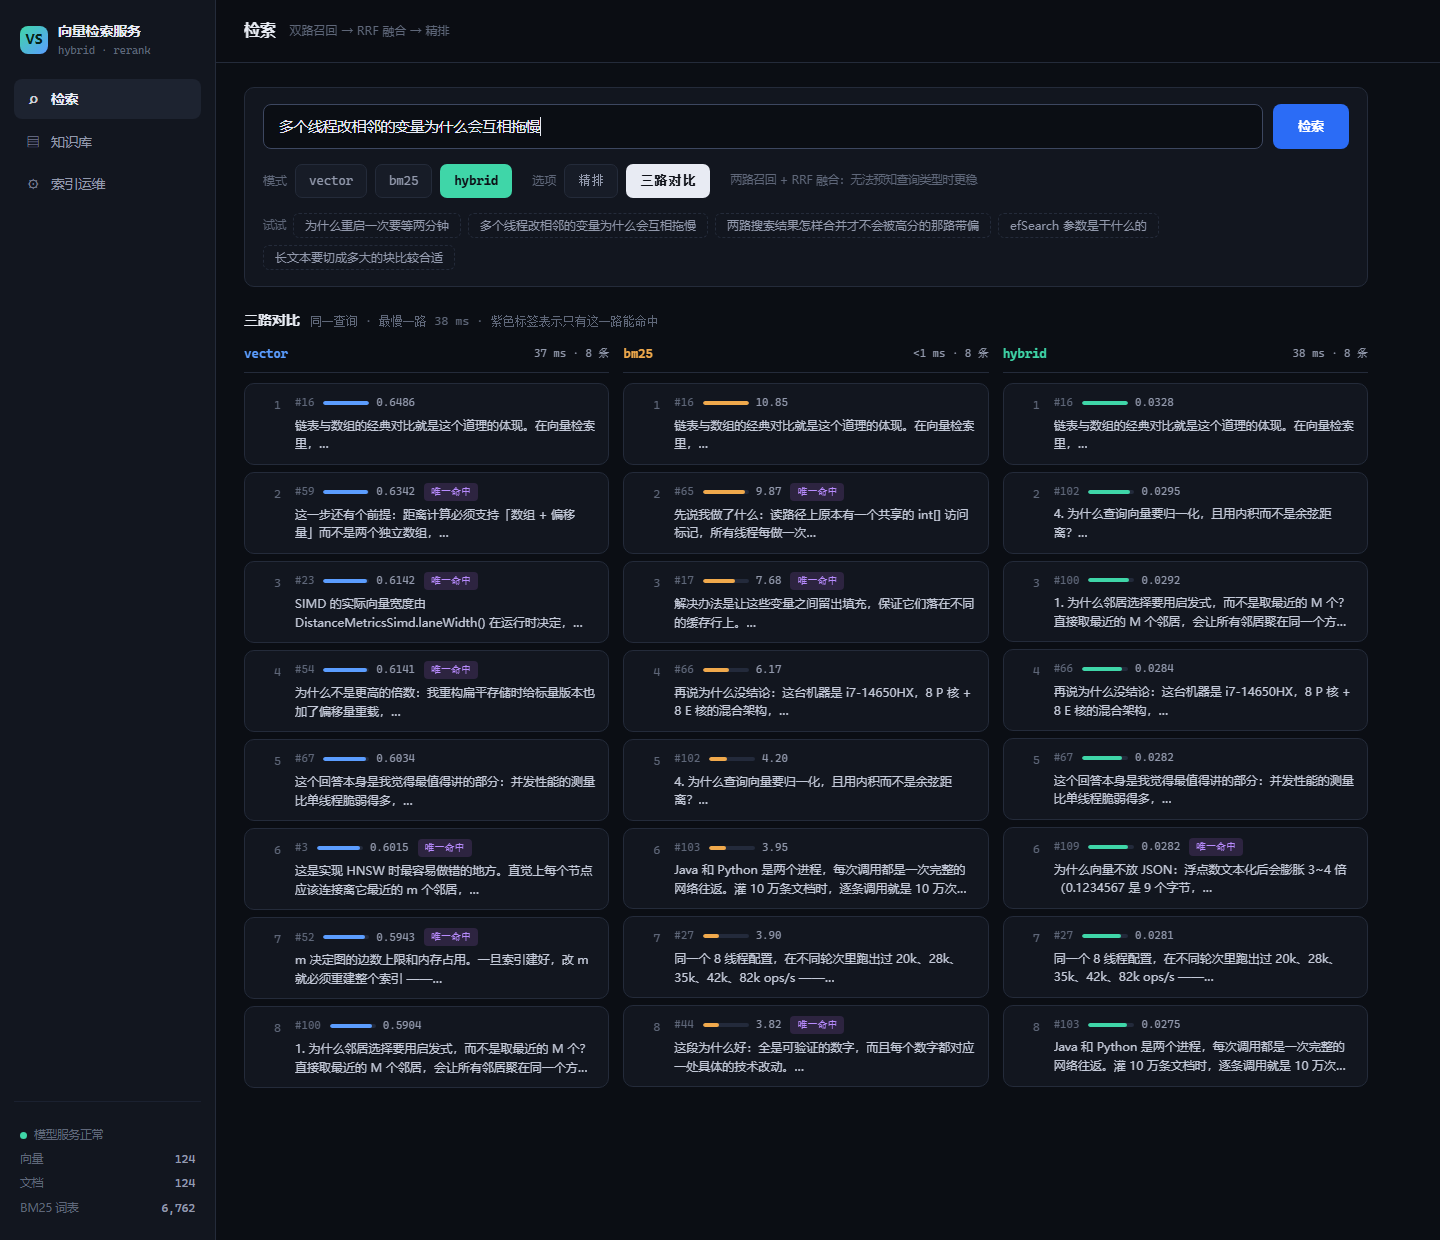
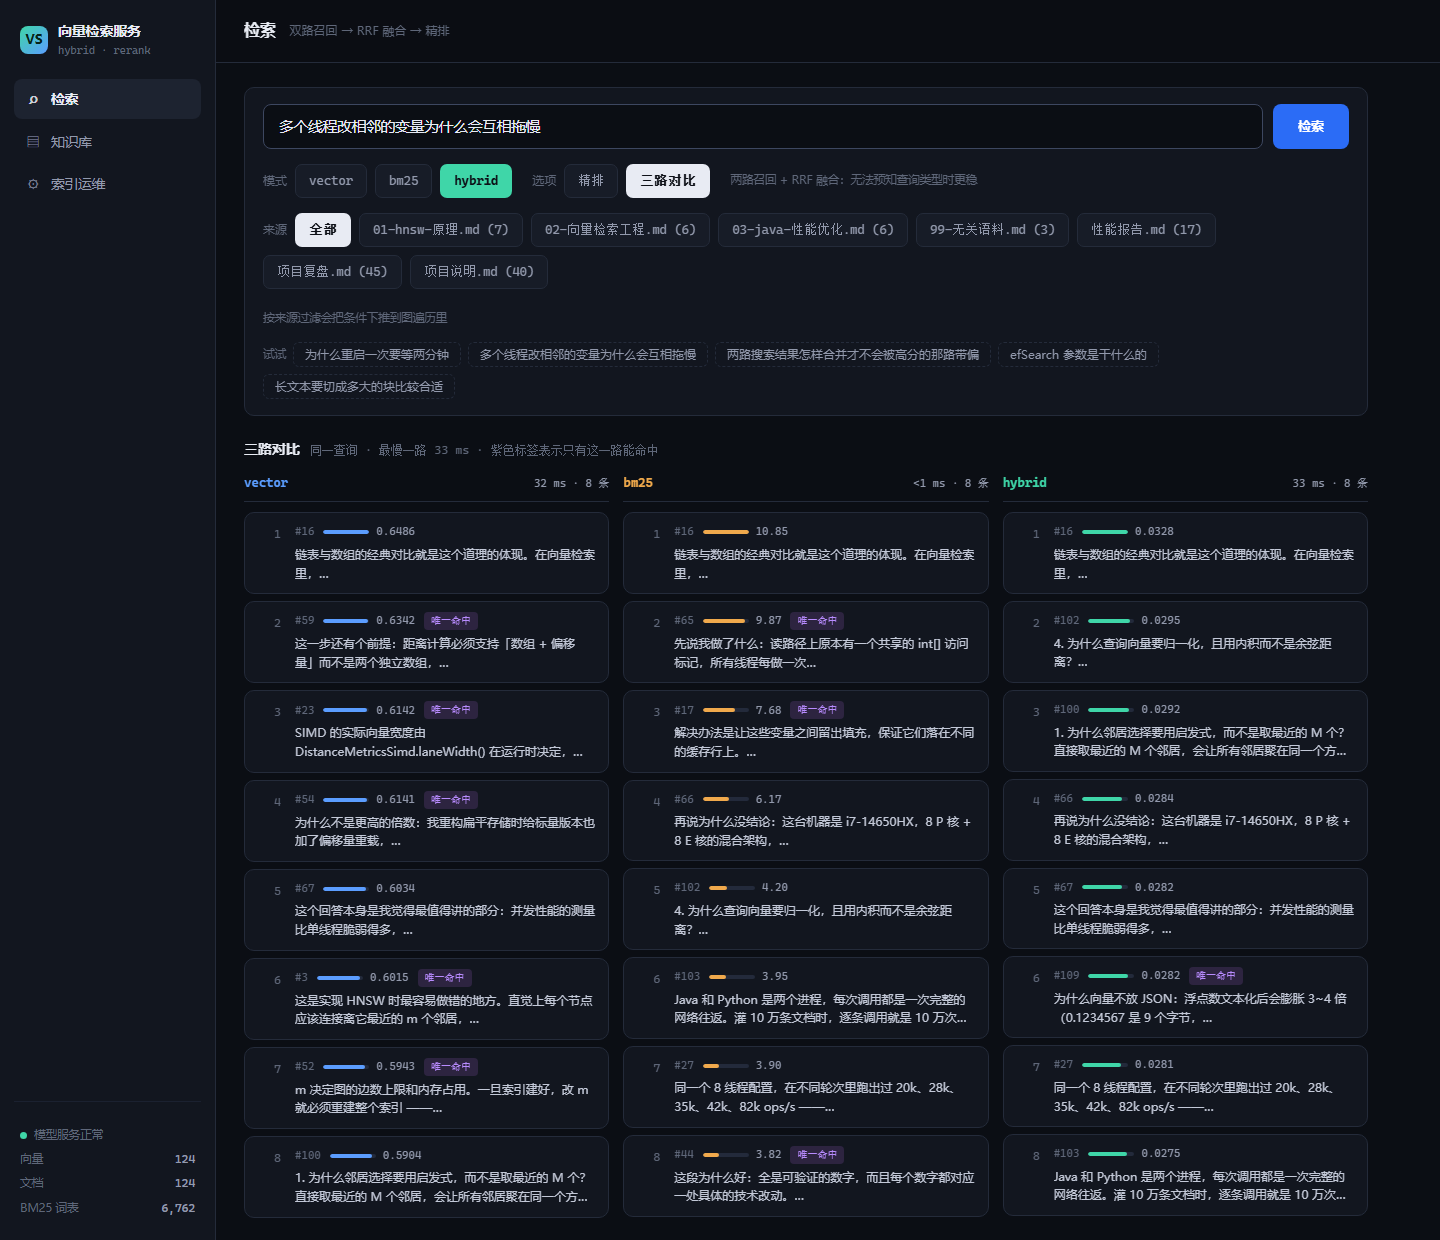
fix: 批量灌入按每条文档记来源，演示语料改从切好的 jsonl 恢复
IndexDocumentRequest 加了可空的 source 字段，SearchService.index 优先用它、
退回请求级来源、再退回「未标注」。之前整批共用一份来源，而 load_corpus.py
灌的是切好块的语料（一行一个来源），结果整库都是「未标注」，页面上的来源
筛选形同虚设 —— 不报错，只是安静地少一个功能。

同一个根因还带出两处演示数据问题，一并修掉：

- load_corpus.py 现在把语料行里的 source 一起送过去
- eval/tune_weights.py 扫完恢复演示语料时，改成灌 data/eval-demo/corpus.jsonl，
  不再上传 data/corpus-demo 下的原始 md。原文里有代码围栏，服务端分块会把
  ```bash / ```json 片段也索引进去，演示结果里全是代码碎片

新增 IndexDocumentSourceTest（85 个用例）：假模型客户端 + 真实索引，
断言同一批里三条文档各自落到 a.md / b.md / 未标注。

演示索引按官方路径重灌：124 分块 / 6762 词条 / 7 个来源，
README 内嵌的六张截图同步重截。

diff --git a/vector-search-java/src/test/java/com/vectorsearch/service/IndexDocumentSourceTest.java b/vector-search-java/src/test/java/com/vectorsearch/service/IndexDocumentSourceTest.java
@@ -1,0 +1,79 @@
+package com.vectorsearch.service;
+
+import com.fasterxml.jackson.databind.ObjectMapper;
+import com.vectorsearch.api.dto.IndexDocumentRequest;
+import com.vectorsearch.client.ModelServiceClient;
+import com.vectorsearch.config.VectorSearchProperties;
+import org.junit.jupiter.api.DisplayName;
+import org.junit.jupiter.api.Test;
+
+import java.util.List;
+
+import static org.junit.jupiter.api.Assertions.assertEquals;
+
+/**
+ * 批量灌入时，来源必须按<b>每条文档</b>各自落库。
+ *
+ * <p>为什么专门测这个：切好块的语料一行一条、每行的来源不同，而
+ * {@code scripts/load_corpus.py} 走的是批量接口。如果批量接口只认请求级来源，
+ * 灌完之后整库都是「未标注」，页面上的来源筛选直接失去意义 —— 而且不会报错，
+ * 只是安静地少了一个功能。
+ */
+class IndexDocumentSourceTest {
+
+    private static final int DIMENSION = 8;
+
+    /** 不打网络的假模型客户端：按顺序给单位向量，够索引建图用。 */
+    private static final class StubModelServiceClient extends ModelServiceClient {
+
+        StubModelServiceClient(VectorSearchProperties properties) {
+            super(new ObjectMapper(), properties);
+        }
+
+        @Override
+        public float[][] embed(List<String> texts) {
+            float[][] vectors = new float[texts.size()][DIMENSION];
+            for (int i = 0; i < texts.size(); i++) {
+                vectors[i][i % DIMENSION] = 1.0f;
+            }
+            return vectors;
+        }
+    }
+
+    private static VectorSearchProperties properties() {
+        return new VectorSearchProperties(
+                null,
+                0,
+                new VectorSearchProperties.Index(
+                        DIMENSION, 16, 200, 100, "./target/test-index", 300, 50, "f32"),
+                null,
+                null,
+                null);
+    }
+
+    @Test
+    @DisplayName("同一批里每条的 source 各自生效，没带的记「未标注」")
+    void keepsPerDocumentSource() {
+        VectorSearchProperties properties = properties();
+        DocumentStore store = new DocumentStore(new ObjectMapper());
+        VectorIndexManager indexManager = new VectorIndexManager(properties, store);
+        SparseIndexManager sparseIndexManager = new SparseIndexManager(store);
+        SearchService service = new SearchService(
+                new StubModelServiceClient(properties),
+                indexManager,
+                sparseIndexManager,
+                store,
+                properties);
+
+        service.index(List.of(
+                new IndexDocumentRequest(0, "第一篇正文", "a.md"),
+                new IndexDocumentRequest(1, "第二篇正文", "b.md"),
+                new IndexDocumentRequest(2, "第三篇正文")));
+
+        assertEquals("a.md", store.sourceOf(0));
+        assertEquals("b.md", store.sourceOf(1));
+        assertEquals(DocumentStore.DocMeta.UNKNOWN_SOURCE, store.sourceOf(2));
+        assertEquals(1, store.sourceCounts().get("a.md"));
+        assertEquals(1, store.sourceCounts().get("b.md"));
+    }
+}

diff --git a/eval/tune_weights.py b/eval/tune_weights.py
@@ -247,12 +247,17 @@ def main() -> int:
     out_path.write_text(json.dumps(payload, ensure_ascii=False, indent=2) + "\n", encoding="utf-8")
     print(f"结果已写入 {out_path}", flush=True)
 
-    # 扫完把索引恢复成演示语料（否则页面上看到的是评测语料）
+    # 扫完把索引恢复成演示语料（否则页面上看到的是评测语料）。
+    #
+    # 这里必须灌切好块的 corpus.jsonl，不要上传 data/corpus-demo 下的原始 md：
+    # 原文里带代码围栏，上传后由服务端分块会把 ```bash / ```json 片段也索引进去，
+    # 演示结果里会冒出代码碎片（曾经就是这么把演示页弄难看的）。
     print("恢复演示语料 …", flush=True)
     restart(best["vector"], best["bm25"])
-    run(["curl.exe", "-s", "-X", "DELETE", f"{SERVICE}/api/documents"])
-    for md in sorted((ROOT / "data" / "corpus-demo").glob("*.md")):
-        run(["curl.exe", "-s", "-X", "POST", "-F", f"file=@{md}", f"{SERVICE}/api/documents/upload"])
+    run([sys.executable, str(ROOT / "scripts" / "load_corpus.py"),
+         "--service", SERVICE,
+         "--corpus", str(ROOT / "data" / "eval-demo" / "corpus.jsonl"),
+         "--reset"])
     run(["curl.exe", "-s", "-X", "POST", f"{SERVICE}/api/admin/snapshot"])
     print("完成。", flush=True)
     return 0

diff --git a/scripts/load_corpus.py b/scripts/load_corpus.py
@@ -46,6 +46,19 @@ def post_json(url: str, payload: dict, timeout: float) -> dict:
         return json.loads(response.read().decode("utf-8"))
 
 
+def _to_document(chunk: dict) -> dict:
+    """把语料行转成 /api/documents 的一条文档。
+
+    语料行里的 `source` 是切块时记下来的文件名，必须一起送进去：不送的话
+    整批都会被标成「未标注」，页面上的来源筛选就没得选了。
+    """
+    document = {"id": chunk["id"], "text": chunk["text"]}
+    source = chunk.get("source")
+    if source:
+        document["source"] = source
+    return document
+
+
 def main() -> int:
     parser = argparse.ArgumentParser(description="把语料灌进检索服务")
     parser.add_argument("--corpus", default="data/eval/corpus.jsonl")
@@ -84,7 +97,7 @@ def main() -> int:
 
     for start in range(0, len(chunks), args.batch_size):
         batch = chunks[start : start + args.batch_size]
-        payload = {"documents": [{"id": c["id"], "text": c["text"]} for c in batch]}
+        payload = {"documents": [_to_document(c) for c in batch]}
         try:
             result = post_json(f"{args.service}/api/documents", payload, args.timeout)
             indexed += result["indexed"]

diff --git a/vector-search-java/src/main/java/com/vectorsearch/api/dto/IndexDocumentRequest.java b/vector-search-java/src/main/java/com/vectorsearch/api/dto/IndexDocumentRequest.java
@@ -6,14 +6,28 @@ import jakarta.validation.constraints.NotNull;
 /**
  * 待索引的文档。
  *
- * @param id   文档 id，由调用方指定
- * @param text 文档原文，服务端负责切分与向量化
+ * @param id     文档 id，由调用方指定
+ * @param text   文档原文，服务端负责切分与向量化
+ * @param source 来源标识（通常是文件名），可空。为空时整批共用请求级来源，
+ *               或者记成「未标注」
  */
 public record IndexDocumentRequest(
         @NotNull(message = "id 不能为空")
         Integer id,
 
         @NotBlank(message = "text 不能为空")
-        String text
+        String text,
+
+        String source
 ) {
+
+    /**
+     * 不带来源的写法，来源记成「未标注」。
+     *
+     * <p>保留这个重载是因为它有两个真实用途：测试里造数据不想被来源干扰；
+     * 以及 {@code scripts/load_corpus.py} 之外的调用方只关心「灌进去」。
+     */
+    public IndexDocumentRequest(Integer id, String text) {
+        this(id, text, null);
+    }
 }

diff --git a/vector-search-java/src/main/java/com/vectorsearch/service/SearchService.java b/vector-search-java/src/main/java/com/vectorsearch/service/SearchService.java
@@ -394,7 +394,13 @@ public class SearchService {
 
         for (int i = 0; i < documents.size(); i++) {
             IndexDocumentRequest document = documents.get(i);
-            documentStore.put(document.id(), document.text(), meta);
+            // 每条自带的来源优先：整批可能来自不同文件（切好块的语料就是这样）。
+            // 没带就退回请求级的来源，再没有就是「未标注」。
+            DocumentStore.DocMeta documentMeta =
+                    document.source() == null || document.source().isBlank()
+                            ? meta
+                            : DocumentStore.DocMeta.of(document.source(), meta.importedAt());
+            documentStore.put(document.id(), document.text(), documentMeta);
             indexManager.add(document.id(), vectors[i]);
             sparseIndexManager.add(document.id(), document.text());
         }

diff --git a/README.md b/README.md
@@ -183,7 +183,7 @@ docker compose up --build
 94 个测试，两端各跑各的：
 
 ```powershell
-# Java：84 个（核心算法、SIMD、HNSW、分词、BM25、RRF、快照、量化、带过滤的检索、鉴权、自动压实）
+# Java：85 个（核心算法、SIMD、HNSW、分词、BM25、RRF、快照、量化、带过滤的检索、鉴权、自动压实）
 cd vector-search-java
 mvn -B -ntp test
 
@@ -831,7 +831,7 @@ python evaluate.py --queries ../data/eval/queries.jsonl --top-k 10 --label hnsw-
 - [x] Spring Boot 服务化 + 分阶段耗时统计
 - [x] Python 模型服务 + 动态批处理
 - [x] 评测脚手架（语料构建 / 查询生成 / 指标计算）
-- [x] 单元测试（**84 个** Java + 10 个 Python 用例，含 recall 对照暴力检索、过滤检索、量化、快照往返、自动压实）
+- [x] 单元测试（**85 个** Java + 10 个 Python 用例，含 recall 对照暴力检索、过滤检索、量化、快照往返、自动压实）
 - [x] JMH 微基准（SIMD 距离 / HNSW 检索 / 暴力检索 / 多线程吞吐）
 - [x] 召回率扫描器 + 自动生成基准报告
 - [x] 开发脚本（一键启停 / 灌库 / 冒烟 / 评测）
@@ -843,7 +843,7 @@ python evaluate.py --queries ../data/eval/queries.jsonl --top-k 10 --label hnsw-
 - [x] **二阶段精排**（cross-encoder，MRR +9~14%，延迟 43ms → 599ms）
 - [x] **应用界面**（检索 / 知识库 / 索引运维三个页面，原生 HTML/CSS/JS 无构建，
       含文档上传、分页管理、逻辑删除、快照落盘、三路对比与阶段耗时条）
-- [x] CI（GitHub Actions，push/PR 自动跑 84 个 Java 测试 + 10 个 Python 测试 + 前端资源检查）
+- [x] CI（GitHub Actions，push/PR 自动跑 85 个 Java 测试 + 10 个 Python 测试 + 前端资源检查）
 - [x] **可选管理密钥**（保护 `DELETE` 与 `/api/admin/**`，默认关闭，常数时间比较）
 - [x] **墓碑压实**（活节点搬进新图 + BM25 整表重建 + 清墓碑，不重新调用模型）
 - [x] **SQ8 量化**（int8 存储：内存 273.8 → 81.8 MB，recall 0.9983 → 0.9150，延迟 ×1.4）

diff --git a/docs/RESUME.md b/docs/RESUME.md
@@ -111,7 +111,7 @@ HR 和面试官不会读完所有代码 —— 他们把这份东西当**证据*
 | 精排延迟代价 | 43 ms → **599 ms**（CPU，10 条候选） | `evaluate.py` |
 | **墓碑压实**（124 → 84 篇） | **1.02 秒**；词表 6,762 → 4,558，平均长度 119.1 → 106.8 | `POST /api/admin/compact` |
 | 读锁开销（单线程无竞争） | **16 ns**，占一次 104 µs 检索的 0.015% | `LockOverheadBenchmark` |
-| 单元测试 | **84 个 Java + 10 个 Python** 全绿 | `mvn test` / `pytest` |
+| 单元测试 | **85 个 Java + 10 个 Python** 全绿 | `mvn test` / `pytest` |
 
 ### 口径说明（重要）
 
@@ -611,7 +611,7 @@ BM25 侧同样要遍历每条 posting list 才能把它摘掉。
 
 ## 五、投递前检查清单
 
-- [ ] `mvn test` 全绿（84 个用例）
+- [ ] `mvn test` 全绿（85 个用例）
 - [ ] `cd model-service && python -m pytest tests -q` 全绿（10 个用例）
 - [ ] `.\scripts\run_bench.ps1` 能跑完并生成 `bench/REPORT.md`
 - [ ] `bench/REPORT.md` 的数字与本文档一致

diff --git a/AGENTS.md b/AGENTS.md
@@ -39,7 +39,7 @@ cd 'G:\all workspace\vector-search'
 测试与基准：
 
 ```powershell
-cd vector-search-java; mvn -B -ntp test        # 84 个
+cd vector-search-java; mvn -B -ntp test        # 85 个
 cd model-service; .\.venv\Scripts\python.exe -m pytest tests -q   # 10 个
 .\scripts\run_bench.ps1                        # 重算 bench/REPORT.md
 .\scripts\bench_concurrency_pinned.ps1         # 并发基准（必须绑核，先停服务）
@@ -55,7 +55,7 @@ cd model-service; .\.venv\Scripts\python.exe -m pytest tests -q   # 10 个
 
 ## 验收（"完成"的定义）
 
-- `mvn test` 84 个全绿、`pytest` 10 个全绿
+- `mvn test` 85 个全绿、`pytest` 10 个全绿
 - `dev.ps1 start` 后 `/api/stats` 有数据、能检索出结果
 - **改检索/索引逻辑必须附基准数字的前后对比**（`bench/REPORT.md` 或临时脚本都行，但不能只有"编译通过"）
 - 完成 = 证据 + 一行 `未验证：`
